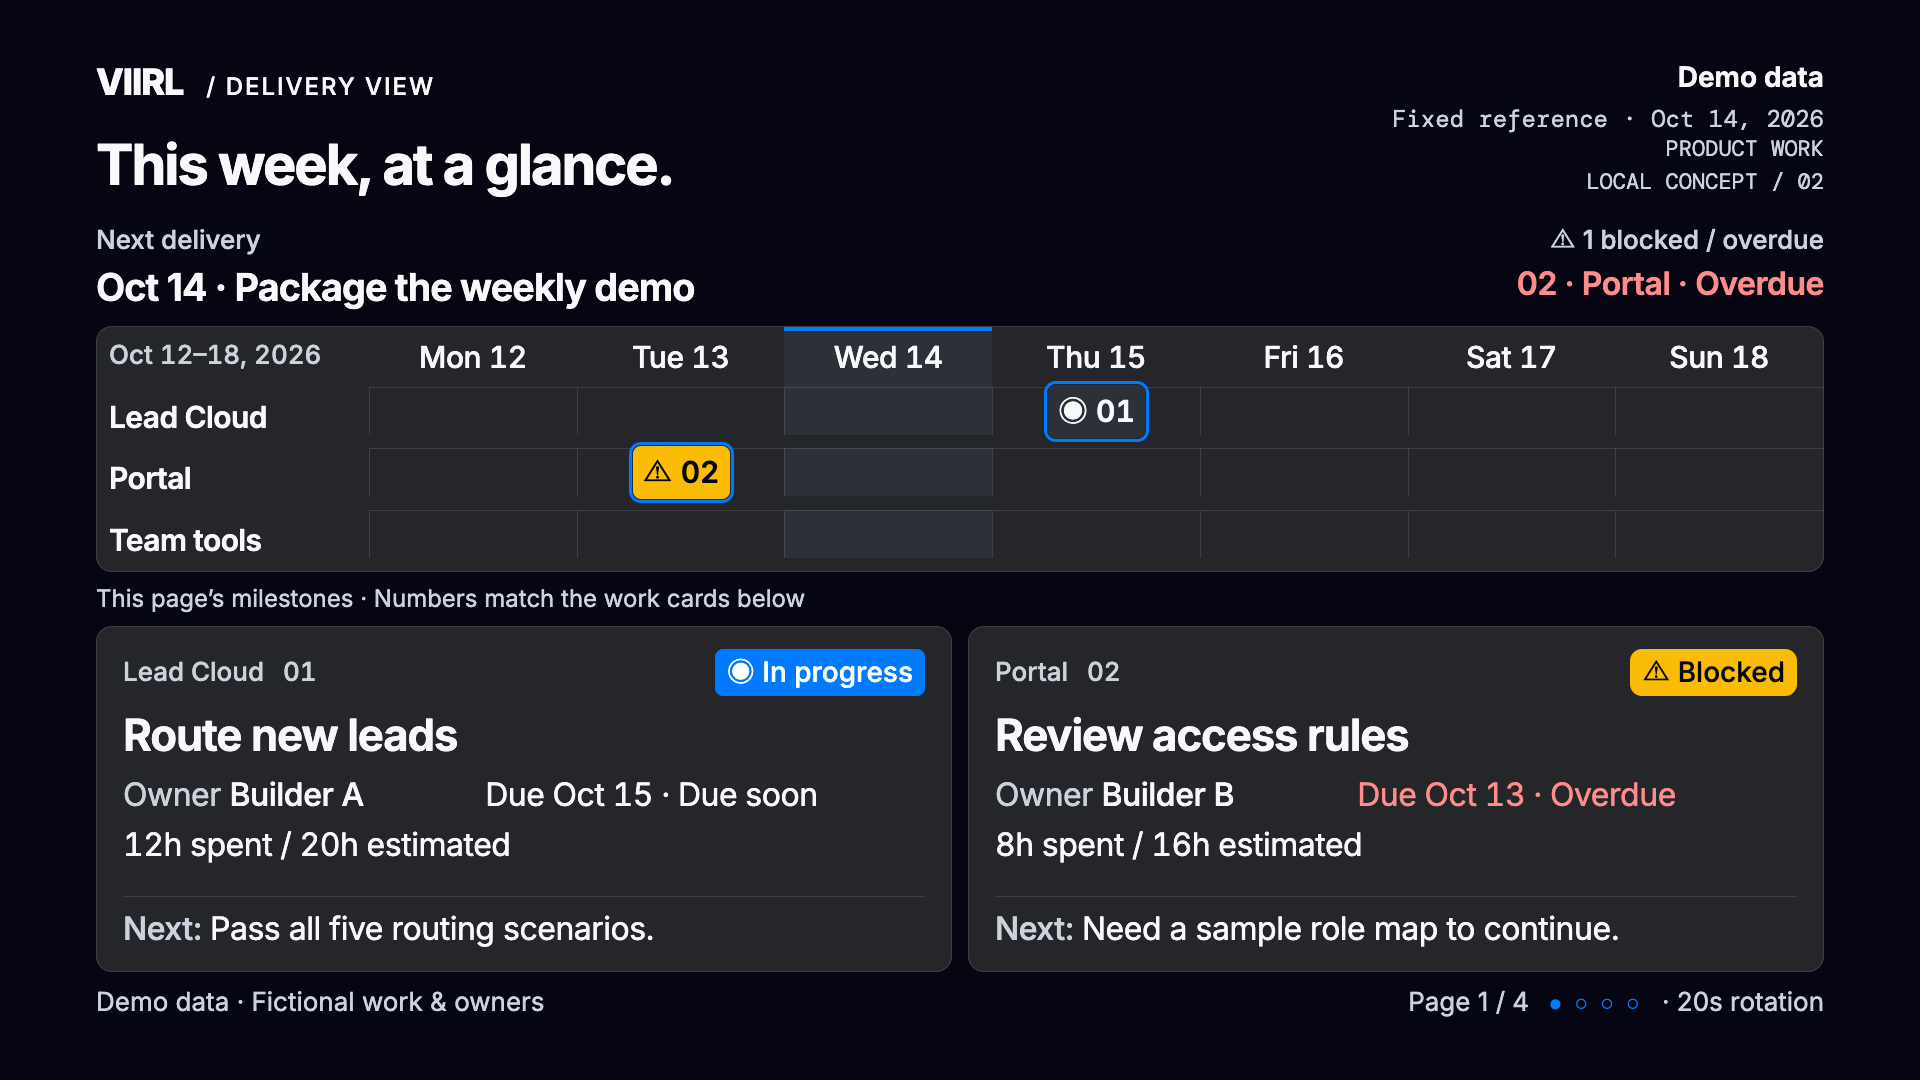
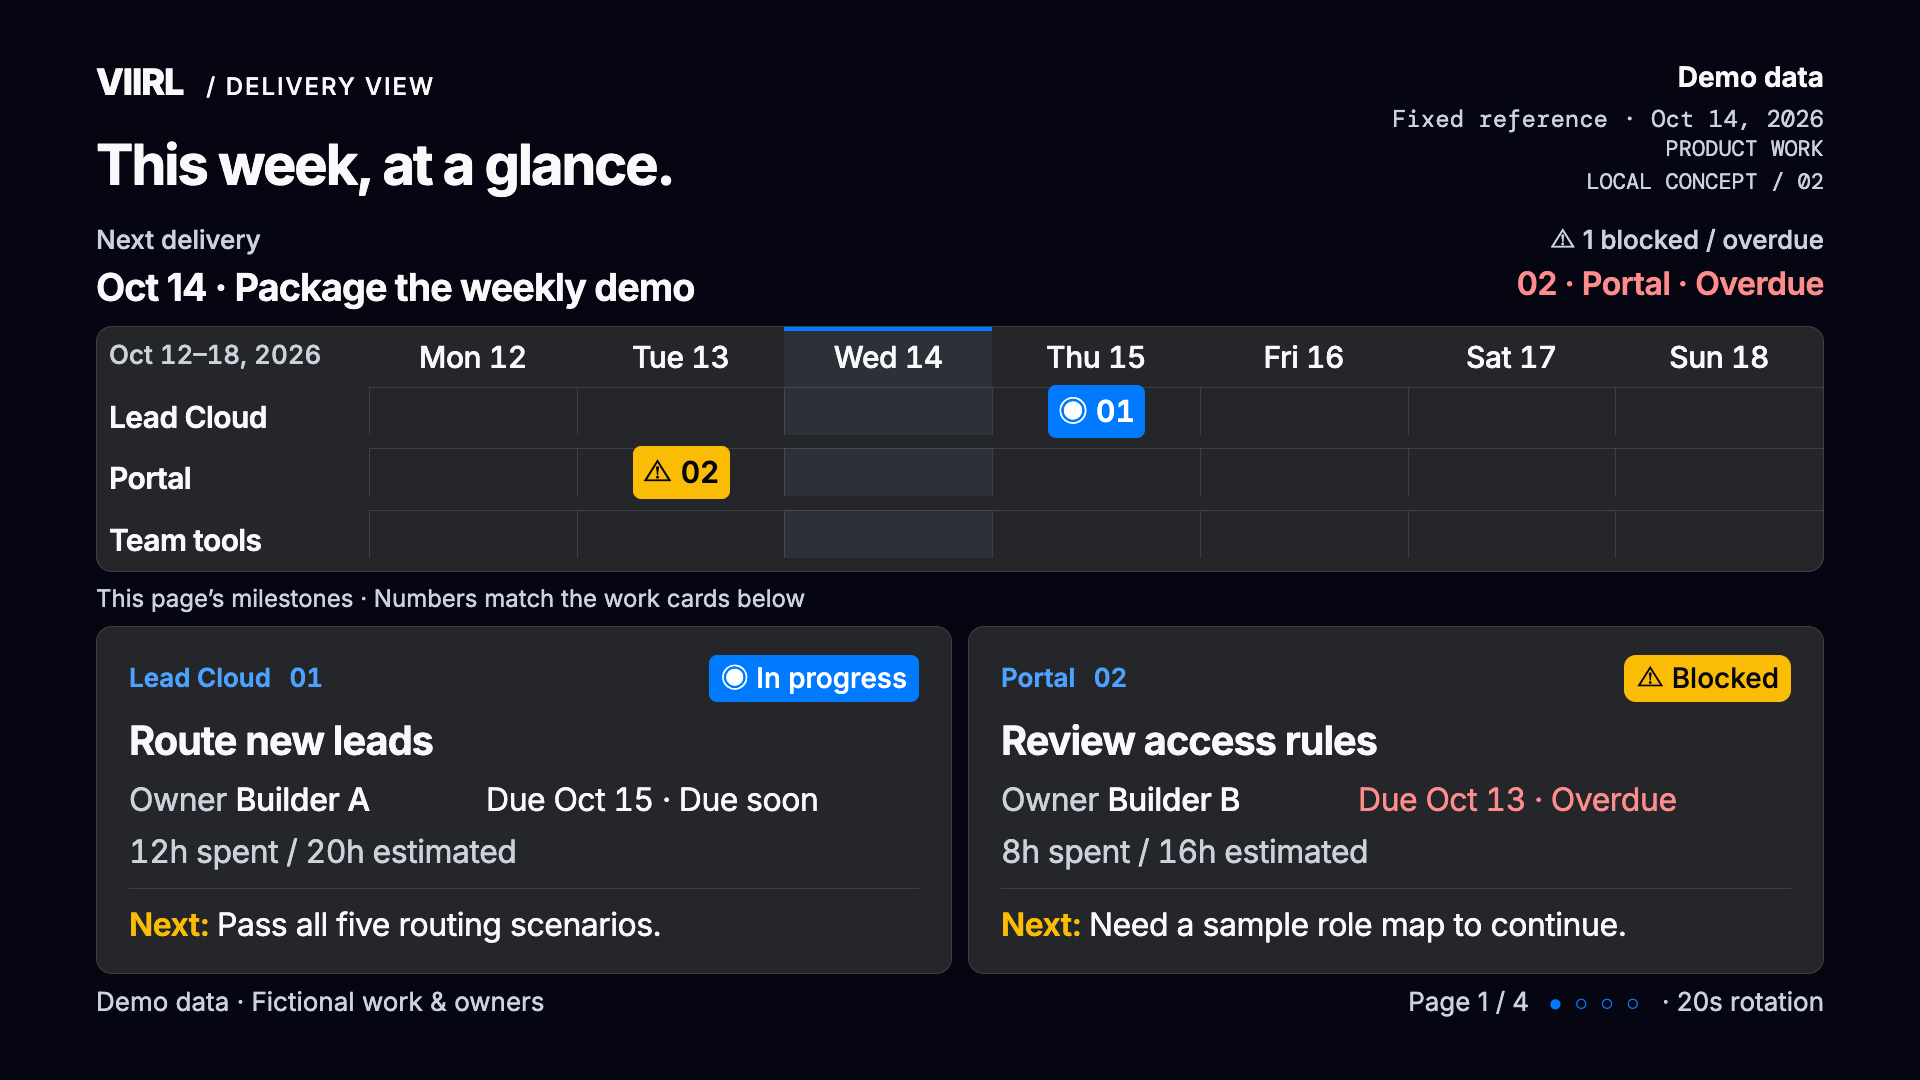
Align Delivery View milestone colors and improve card hierarchy

diff --git a/style.css b/style.css
@@ -84,3 +84,20 @@
 .board .work-card .eyebrow{color:var(--board-label)}
 .board .expectation>span{color:var(--board-next);font-weight:600}
 .board .lane.done,.board .lane.done .eyebrow,.board .lane.done .expectation>span{color:var(--board-done)}
+
+/* Delivery view: shared status colors connect milestones to their detail cards. */
+.timeline{--delivery-label:var(--color-blue-hover);--delivery-next:color-mix(in srgb,var(--color-warning) 48%,var(--color-dark))}
+[data-theme="dark"] .timeline{--delivery-label:color-mix(in srgb,var(--color-blue) 70%,white);--delivery-next:var(--color-warning)}
+.timeline .milestone.selected{outline:none}
+.timeline .milestone.in-progress,.timeline .work-card .status.in-progress{background:var(--color-blue);color:white}
+.timeline .milestone.done{background:var(--color-success);color:white}
+.timeline .milestone.blocked{background:var(--color-warning);color:var(--color-dark)}
+.timeline .milestone.upcoming{background:var(--color-light-secondary);color:var(--color-text-primary)}
+.timeline .work-card{padding:28px 32px;gap:16px 24px}
+.timeline .work-card .eyebrow{color:var(--delivery-label);font-weight:600;font-size:26px}
+.timeline .work-card h3,.timeline .delivery-cards>.work-card:only-child h3{font-size:40px;line-height:1.15}
+.timeline .work-card .facts{gap:12px 24px}
+.timeline .work-card .hours{color:var(--color-text-subtle)}
+.timeline .expectation{padding-top:16px}
+.timeline .expectation p:before{color:var(--delivery-next);font-weight:600}
+.timeline .work-card.done .expectation p:before{color:var(--color-text-subtle)}
